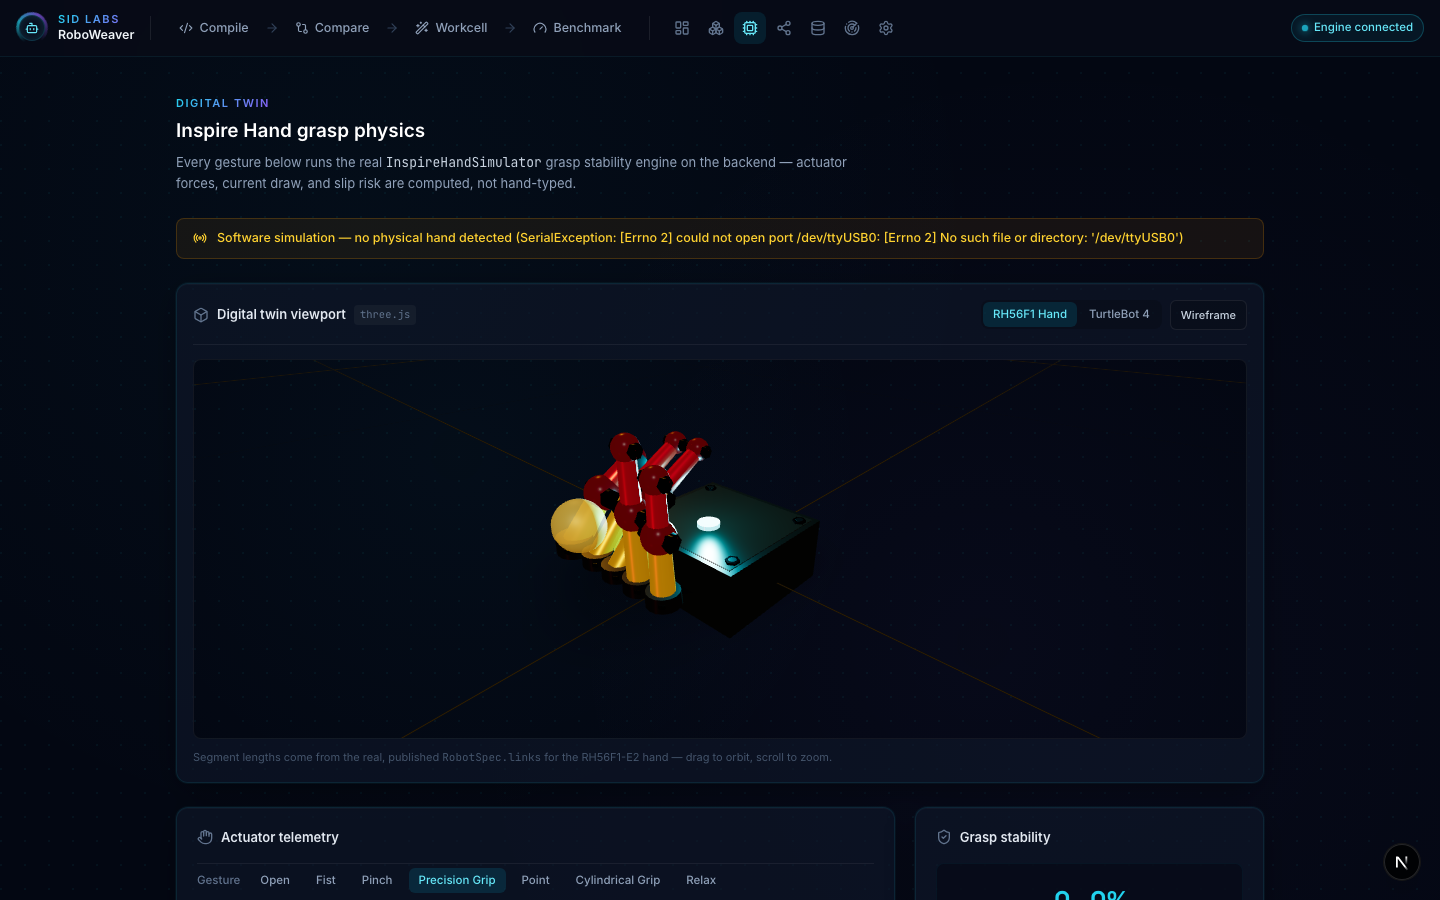
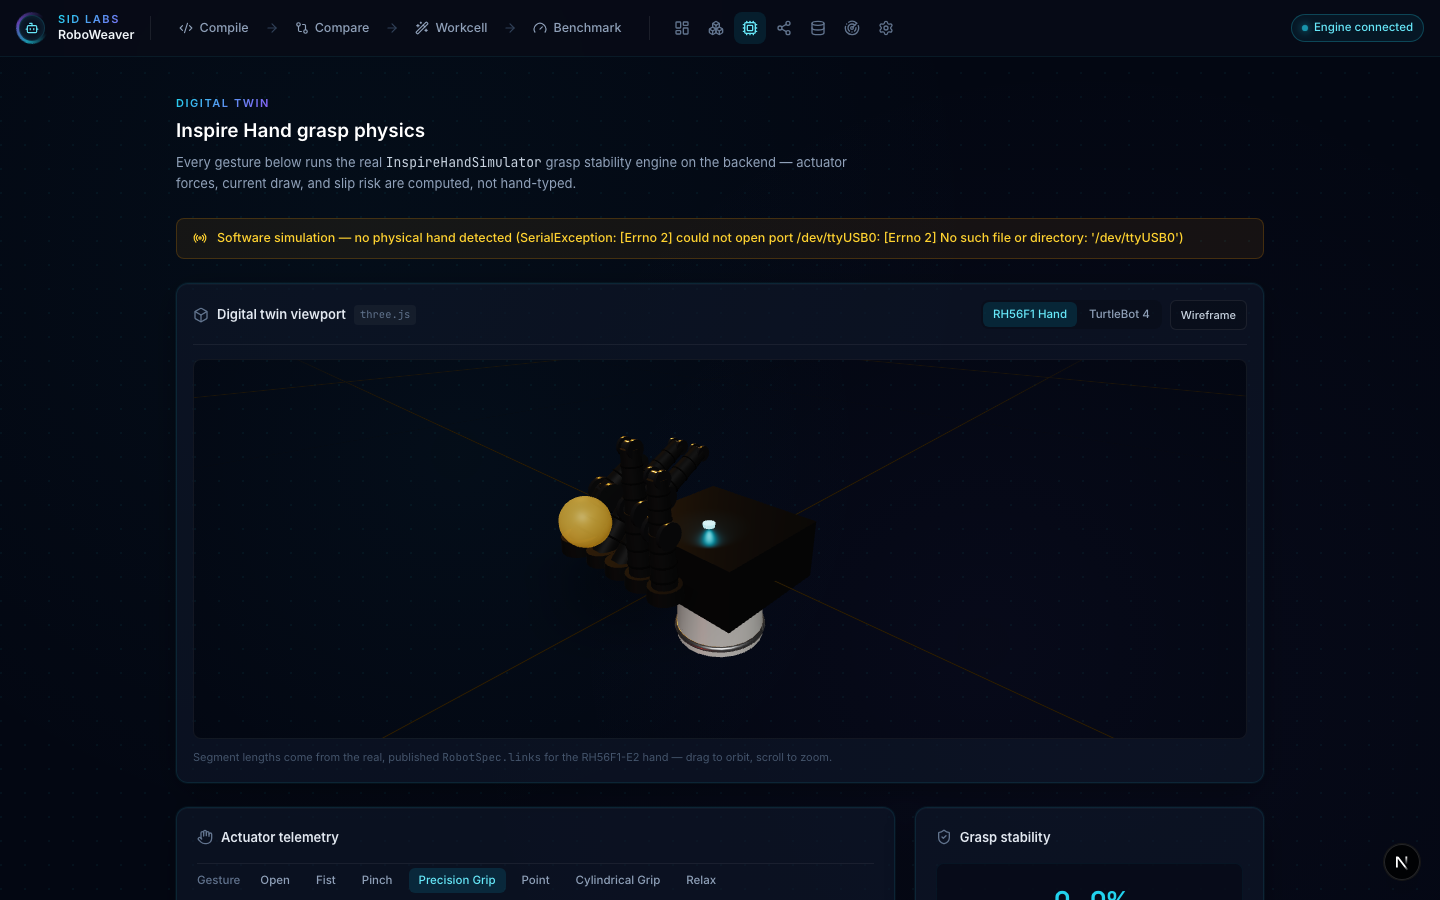
fix: recolor the Inspire Hand mesh to match the real product's black/white/chrome
The mesh previously used this app's gold/red/gunmetal "Iron Man" palette (built
for the arm robots) on the hand too. Reworked it to the RH56-series's actual
color/material language from the manufacturer's own product photography: matte
black ribbed finger segments and palm, a bright chrome fork/clevis knuckle
bracket at every joint (replacing the small hex-bolt screw heads), and a new
white wrist adapter with a chrome retaining ring. Kept one small cyan accent
dot on the palm for consistency with the rest of the app's visual signature.

Kept the underlying geometry/kinematics untouched -- segment lengths still
come from the real RobotSpec.links, and finger bend still comes from real
per-actuator telemetry.

Changed region(s): [[0.375, 0.4667, 0.5312, 0.7467], [0.0, 0.0, 0.0312, 0.0311]]

diff --git a/frontend/src/components/robot3d/InspireHandMesh.tsx b/frontend/src/components/robot3d/InspireHandMesh.tsx
@@ -30,97 +30,94 @@ const FALLBACK_BEND: Record<string, number> = {
   'Power Grasp': 0.95,
 };
 
+// Real Inspire RH56-series color language (from the manufacturer's own product
+// photography): matte black rubber-clad fingers/palm, a bright chrome hinge
+// bracket exposed at every knuckle, and a white wrist adapter -- not the gold/
+// red "Iron Man" palette used elsewhere in this app for the arm robots, since
+// that's a deliberate house style for THOSE models, not a claim about what this
+// hand actually looks like.
+const BODY_BLACK = '#161616';
+const BODY_RIB = '#0c0c0c';
+const CHROME = '#d7d8da';
+const CHROME_SHADOW = '#8f9095';
+const SENSOR_DARK = '#050505';
+const WRIST_WHITE = '#e9e7e1';
+
 function linkLength(links: RobotLinkSpec[], name: string, fallback: number): number {
   return links.find((l) => l.name === name)?.length ?? fallback;
 }
 
-/** A real hex-head cap screw -- 6-segment cylinder reads as a hex head at a glance,
- * a slightly darker top face gives it a machined recess instead of a flat disc.
- * Purely cosmetic (no data behind a screw placement), used to make the casing and
- * joints read as bolted-together hardware instead of bare primitives. */
-function ScrewHead({
-  radius = 0.0026,
-  axis = 'y',
-  wireframe,
-}: {
-  radius?: number;
-  axis?: 'x' | 'y' | 'z';
-  wireframe: boolean;
-}) {
-  const rotation: [number, number, number] =
-    axis === 'x' ? [0, 0, Math.PI / 2] : axis === 'z' ? [Math.PI / 2, 0, 0] : [0, 0, 0];
+/** The knuckle's exposed hinge bracket -- a bright chrome drum on the real bend
+ * axis flanked by two slightly wider chrome cheek plates (a real clevis/fork
+ * joint reads exactly this way: a shiny cylindrical pivot pinched between two
+ * flat plates), plus a small dark sensor chip on one cheek, matching the flex
+ * sensor cable module visible on the real hand's own joints. */
+function ForkJoint({ radius, wireframe }: { radius: number; wireframe: boolean }) {
+  const plateGap = radius * 1.5;
   return (
-    <group rotation={rotation}>
+    <group rotation={[0, 0, Math.PI / 2]}>
       <mesh castShadow>
-        <cylinderGeometry args={[radius, radius * 1.05, radius * 0.85, 6]} />
-        <meshStandardMaterial color="#0d0d0d" metalness={0.95} roughness={0.2} wireframe={wireframe} />
+        <cylinderGeometry args={[radius * 0.62, radius * 0.62, plateGap * 0.92, 20]} />
+        <meshStandardMaterial color={CHROME} metalness={0.95} roughness={0.12} wireframe={wireframe} />
       </mesh>
-      <mesh position={[0, radius * 0.43, 0]}>
-        <cylinderGeometry args={[radius * 0.62, radius * 0.62, radius * 0.06, 6]} />
-        <meshStandardMaterial color="#3d3d3d" metalness={0.9} roughness={0.3} wireframe={wireframe} />
+      {[-1, 1].map((side) => (
+        <mesh key={side} position={[0, side * plateGap * 0.5, 0]} castShadow>
+          <cylinderGeometry args={[radius * 0.95, radius * 0.95, radius * 0.32, 20]} />
+          <meshStandardMaterial color={CHROME_SHADOW} metalness={0.9} roughness={0.2} wireframe={wireframe} />
+        </mesh>
+      ))}
+      {/* Flex-sensor chip -- a small dark module on one cheek plate. */}
+      <mesh position={[radius * 0.55, plateGap * 0.5 + radius * 0.16, 0]} rotation={[Math.PI / 2, 0, 0]} castShadow>
+        <boxGeometry args={[radius * 0.5, radius * 0.9, radius * 0.14]} />
+        <meshStandardMaterial color={SENSOR_DARK} metalness={0.3} roughness={0.6} wireframe={wireframe} />
       </mesh>
     </group>
   );
 }
 
-/** A short, wide mounting collar -- where a finger link bolts to the palm or to
- * the previous phalanx, real assemblies step out to a wider ring rather than one
- * link's cylinder meeting another's at a bare point. Two real hex screws sit on
- * its face, opposite the hinge axis, matching how a real knuckle is fastened. */
-function MountCollar({ radius, wireframe }: { radius: number; wireframe: boolean }) {
+/** A matte black knuckle housing at the base of each finger -- fixed to the
+ * palm, doesn't rotate with the finger, matching how the real actuator housing
+ * is molded into the palm shell and only the finger itself pivots. */
+function KnuckleHousing({ radius, wireframe }: { radius: number; wireframe: boolean }) {
   return (
-    <group>
-      <mesh castShadow receiveShadow>
-        <cylinderGeometry args={[radius, radius * 1.06, radius * 0.9, 16]} />
-        <meshStandardMaterial color="#1c1a17" emissive="#2a2520" emissiveIntensity={0.15} metalness={0.85} roughness={0.3} wireframe={wireframe} />
-      </mesh>
-      <group position={[radius * 0.55, 0, radius * 0.55]}>
-        <ScrewHead radius={radius * 0.3} axis="y" wireframe={wireframe} />
-      </group>
-      <group position={[-radius * 0.55, 0, -radius * 0.55]}>
-        <ScrewHead radius={radius * 0.3} axis="y" wireframe={wireframe} />
-      </group>
-    </group>
+    <mesh castShadow receiveShadow>
+      <cylinderGeometry args={[radius, radius * 1.08, radius * 0.85, 20]} />
+      <meshStandardMaterial color={BODY_BLACK} emissive={BODY_BLACK} emissiveIntensity={0.6} metalness={0.2} roughness={0.55} wireframe={wireframe} />
+    </mesh>
   );
 }
 
-function JointBall({ radius, wireframe }: { radius: number; wireframe: boolean }) {
-  return (
-    <group>
-      <mesh castShadow>
-        <sphereGeometry args={[radius, 20, 20]} />
-        <meshStandardMaterial color="#161616" emissive="#a3120a" emissiveIntensity={0.35} metalness={0.9} roughness={0.25} wireframe={wireframe} />
-      </mesh>
-      {/* Real hinge pin heads -- the axle a real knuckle actually rotates on,
-          visible on both sides along the bend axis, not just a bare sphere. */}
-      <group position={[radius * 0.92, 0, 0]}>
-        <ScrewHead radius={radius * 0.55} axis="x" wireframe={wireframe} />
-      </group>
-      <group position={[-radius * 0.92, 0, 0]}>
-        <ScrewHead radius={radius * 0.55} axis="x" wireframe={wireframe} />
-      </group>
-    </group>
-  );
-}
-
+/** A finger phalanx -- matte black rubber-like body with a few thin darker rib
+ * rings, matching the real hand's ribbed/pleated finger cladding instead of a
+ * bare smooth cylinder. */
 function Segment({
   length,
   radius,
-  color,
-  emissive,
   wireframe,
 }: {
   length: number;
   radius: number;
-  color: string;
-  emissive: string;
   wireframe: boolean;
 }) {
+  const ribCount = 3;
   return (
-    <mesh position={[0, length / 2, 0]} castShadow receiveShadow>
-      <cylinderGeometry args={[radius * 0.82, radius, length, 14]} />
-      <meshStandardMaterial color={color} emissive={emissive} emissiveIntensity={0.28} metalness={0.85} roughness={0.3} wireframe={wireframe} />
-    </mesh>
+    <group>
+      <mesh position={[0, length / 2, 0]} castShadow receiveShadow>
+        <cylinderGeometry args={[radius * 0.86, radius, length, 16]} />
+        <meshStandardMaterial color={BODY_BLACK} emissive={BODY_BLACK} emissiveIntensity={0.6} metalness={0.15} roughness={0.6} wireframe={wireframe} />
+      </mesh>
+      {Array.from({ length: ribCount }).map((_, i) => {
+        const t = (i + 1) / (ribCount + 1);
+        const y = length * t;
+        const r = radius * (1 - t) + radius * 0.86 * t;
+        return (
+          <mesh key={i} position={[0, y, 0]} rotation={[Math.PI / 2, 0, 0]}>
+            <torusGeometry args={[r * 0.98, r * 0.1, 8, 20]} />
+            <meshStandardMaterial color={BODY_RIB} emissive={BODY_RIB} emissiveIntensity={0.5} metalness={0.1} roughness={0.7} wireframe={wireframe} />
+          </mesh>
+        );
+      })}
+    </group>
   );
 }
 
@@ -148,24 +145,21 @@ function Finger({
 }) {
   const len1 = linkLengthM * 0.55;
   const len2 = linkLengthM * 0.45;
-  const radius = isThumb ? 0.008 : 0.0065;
+  const radius = isThumb ? 0.0085 : 0.007;
   const theta1 = isThumb ? bend * 1.1 : bend * 1.25;
   const theta2 = theta1 * 1.4;
 
   return (
     <group position={[baseX, 0.015, 0.07]} rotation={isThumb ? [0, thumbYaw, 0] : [0, 0, 0]}>
-      {/* Base knuckle housing -- fixed to the palm, doesn't rotate with the
-          finger, matching how a real actuator housing is bolted to the casing
-          and only its output shaft (the finger itself) turns. */}
-      <MountCollar radius={radius * 1.35} wireframe={wireframe} />
+      <KnuckleHousing radius={radius * 1.3} wireframe={wireframe} />
       <group rotation={[-theta1, 0, 0]}>
-        <Segment length={len1} radius={radius} color="#ffb300" emissive="#ffb300" wireframe={wireframe} />
+        <Segment length={len1} radius={radius} wireframe={wireframe} />
         <group position={[0, len1, 0]}>
-          <JointBall radius={radius * 1.3} wireframe={wireframe} />
+          <ForkJoint radius={radius * 1.05} wireframe={wireframe} />
           <group rotation={[-(theta2 - theta1), 0, 0]}>
-            <Segment length={len2} radius={radius * 0.82} color="#d6291c" emissive="#d6291c" wireframe={wireframe} />
+            <Segment length={len2} radius={radius * 0.8} wireframe={wireframe} />
             <group position={[0, len2, 0]}>
-              <JointBall radius={radius} wireframe={wireframe} />
+              <ForkJoint radius={radius * 0.68} wireframe={wireframe} />
             </group>
           </group>
         </group>
@@ -180,7 +174,10 @@ function Finger({
  * real `RobotSpec.links` fetched over `/api/robots/inspire_hand/model` — the
  * same published data as the hand's kinematics elsewhere in the codebase —
  * and every finger's bend is driven by the real per-actuator positions the
- * backend `InspireHandSimulator` returns, not hand-typed angles.
+ * backend `InspireHandSimulator` returns, not hand-typed angles. Color/material
+ * choices (matte black body, chrome knuckle brackets, white wrist adapter)
+ * follow the manufacturer's own real product photography, not this app's
+ * separate gold/red "Iron Man" palette used for the arm robots.
  */
 export function InspireHandMesh({
   links,
@@ -202,43 +199,53 @@ export function InspireHandMesh({
   const palmLength = linkLength(links, 'palm_base_link', 0.15);
   const palmWidth = palmLength * 0.6;
   const palmDepth = palmLength * 0.27;
+  const palmFrontBack = palmLength * 0.55;
 
   const thumbAbductFraction = bendOf(1, graspState === 'Open' ? 0.15 : 0.75);
   const thumbYaw = (-0.35 + thumbAbductFraction * 0.75) * -1;
 
-  const palmScrewInsetX = palmWidth / 2 - palmWidth * 0.09;
-  const palmScrewInsetZ = (palmLength * 0.55) / 2 - palmLength * 0.07;
+  const wristRadius = palmWidth * 0.32;
+  const wristLength = palmLength * 0.3;
 
   return (
     <group>
-      {/* Palm casing -- a slightly larger lower shell plus a smaller, inset top
-          plate reads as a real chamfered/two-piece housing instead of one bare
-          box, and gives the corner screws a real raised face to sit on. */}
+      {/* Palm shell -- a single smooth black wedge (real hand's palm has no
+          visible screws or seams on its face), very slightly narrower at the
+          bottom to suggest the real tapered profile down to the wrist. */}
       <mesh castShadow receiveShadow>
-        <boxGeometry args={[palmWidth, palmDepth, palmLength * 0.55]} />
-        <meshStandardMaterial color="#211f1b" emissive="#2c2925" emissiveIntensity={0.12} metalness={0.75} roughness={0.4} wireframe={wireframe} />
+        <boxGeometry args={[palmWidth, palmDepth, palmFrontBack]} />
+        <meshStandardMaterial color={BODY_BLACK} emissive={BODY_BLACK} emissiveIntensity={0.6} metalness={0.2} roughness={0.5} wireframe={wireframe} />
       </mesh>
-      <mesh position={[0, palmDepth / 2 - palmDepth * 0.09, 0]} castShadow receiveShadow>
-        <boxGeometry args={[palmWidth * 0.92, palmDepth * 0.2, palmLength * 0.55 * 0.92]} />
-        <meshStandardMaterial color="#332f28" emissive="#3a352c" emissiveIntensity={0.18} metalness={0.8} roughness={0.3} wireframe={wireframe} />
+      <mesh position={[0, -palmDepth * 0.02, -palmFrontBack * 0.02]} castShadow receiveShadow>
+        <boxGeometry args={[palmWidth * 0.94, palmDepth * 0.96, palmFrontBack * 0.9]} />
+        <meshStandardMaterial color={BODY_RIB} emissive={BODY_RIB} emissiveIntensity={0.5} metalness={0.15} roughness={0.55} wireframe={wireframe} />
       </mesh>
-      {/* Four real corner cap screws fastening the top plate to the shell. */}
-      {[
-        [palmScrewInsetX, palmScrewInsetZ],
-        [-palmScrewInsetX, palmScrewInsetZ],
-        [palmScrewInsetX, -palmScrewInsetZ],
-        [-palmScrewInsetX, -palmScrewInsetZ],
-      ].map(([x, z], i) => (
-        <group key={i} position={[x, palmDepth / 2, z]}>
-          <ScrewHead radius={palmWidth * 0.045} axis="y" wireframe={wireframe} />
-        </group>
-      ))}
-      {/* Palm-center repulsor accent */}
-      <mesh position={[0, palmDepth / 2 + 0.001, 0.01]}>
-        <cylinderGeometry args={[0.007, 0.007, 0.004, 20]} />
-        <meshStandardMaterial color="#bff4ff" emissive="#22d3ee" emissiveIntensity={1.6} metalness={0.2} roughness={0.1} wireframe={wireframe} />
+
+      {/* Wrist adapter -- white plastic sleeve with a chrome retaining ring and
+          a small central sensor button, matching the real hand's real
+          arm-mount interface (distinct in both color and material from the
+          black hand body). */}
+      <mesh position={[0, -palmDepth / 2 - wristLength / 2, 0]} castShadow receiveShadow>
+        <cylinderGeometry args={[wristRadius, wristRadius * 1.08, wristLength, 24]} />
+        <meshStandardMaterial color={WRIST_WHITE} metalness={0.15} roughness={0.4} wireframe={wireframe} />
       </mesh>
-      <pointLight position={[0, palmDepth / 2 + 0.02, 0.01]} color="#22d3ee" intensity={0.35} distance={0.15} decay={2} />
+      <mesh position={[0, -palmDepth / 2 - wristLength * 0.86, 0]} rotation={[Math.PI / 2, 0, 0]}>
+        <torusGeometry args={[wristRadius * 1.05, wristRadius * 0.08, 10, 32]} />
+        <meshStandardMaterial color={CHROME} metalness={0.9} roughness={0.15} wireframe={wireframe} />
+      </mesh>
+      <mesh position={[0, -palmDepth / 2 - wristLength - 0.001, 0]} rotation={[Math.PI / 2, 0, 0]}>
+        <circleGeometry args={[wristRadius * 0.28, 24]} />
+        <meshStandardMaterial color={SENSOR_DARK} metalness={0.3} roughness={0.5} wireframe={wireframe} />
+      </mesh>
+
+      {/* Palm-center repulsor accent -- small and subtle, the one deliberate
+          cross-app cyan signature, not a dominant feature on this otherwise
+          realistic black/white/chrome hand. */}
+      <mesh position={[0, palmDepth / 2 + 0.0008, 0.01]}>
+        <cylinderGeometry args={[0.004, 0.004, 0.003, 16]} />
+        <meshStandardMaterial color="#bff4ff" emissive="#22d3ee" emissiveIntensity={1.4} metalness={0.2} roughness={0.1} wireframe={wireframe} />
+      </mesh>
+      <pointLight position={[0, palmDepth / 2 + 0.006, 0.01]} color="#22d3ee" intensity={0.05} distance={0.03} decay={2} />
 
       {FINGERS.map((f) => (
         <Finger
